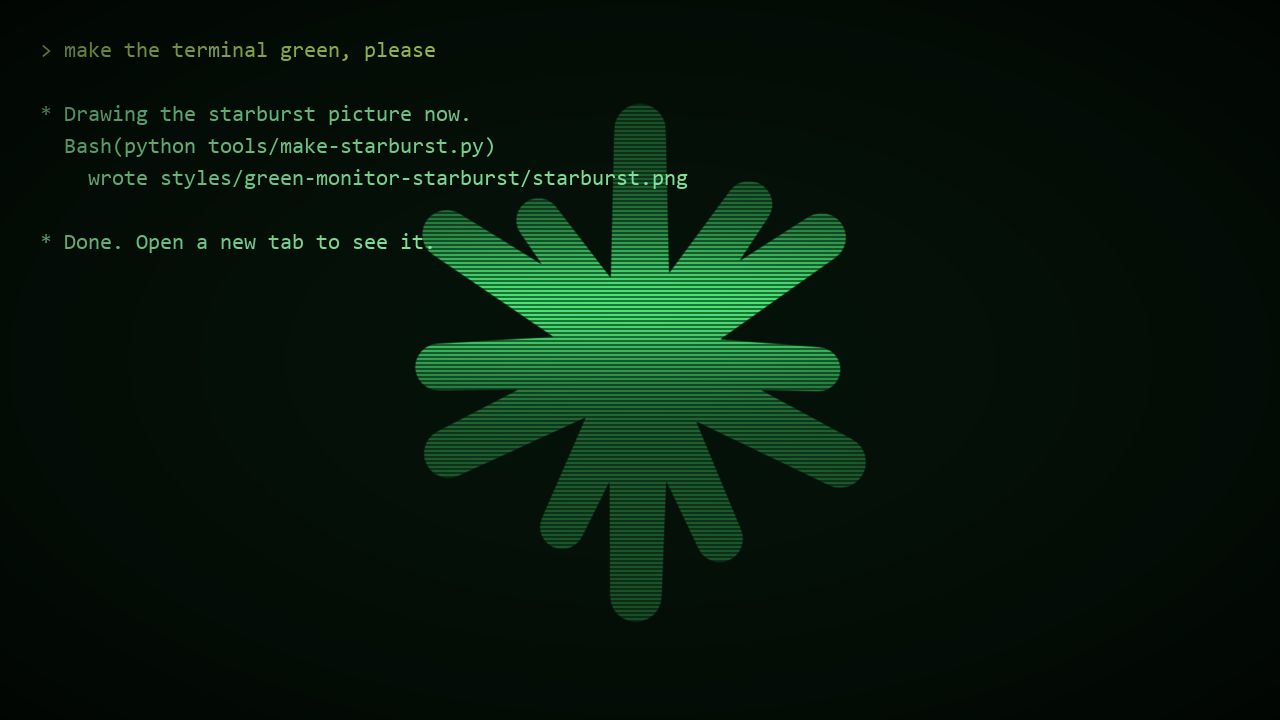
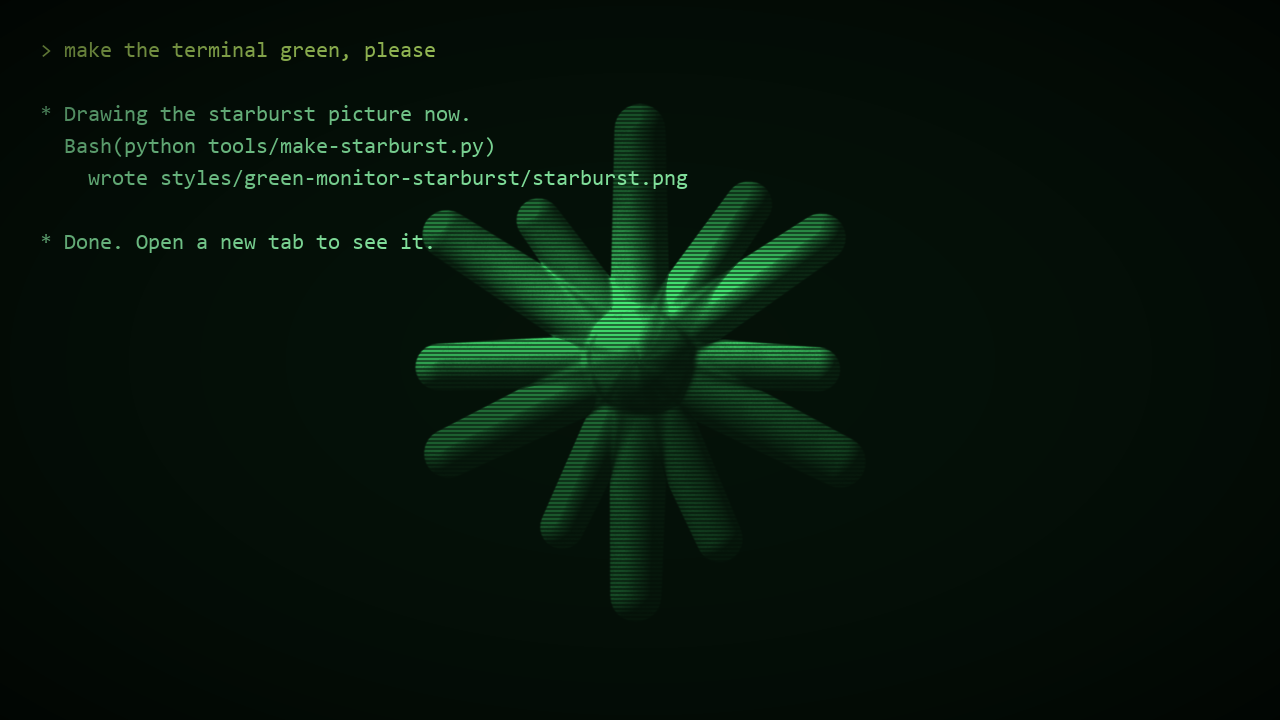
Starburst: rounded, lit and textured instead of flat

Changed region(s): [[0.3125, 0.1528, 0.6875, 0.8556]]

diff --git a/tools/make-starburst.py b/tools/make-starburst.py
@@ -1,14 +1,16 @@
 """Draws the starburst picture used as the terminal background.
 
 Our own drawing, in the spirit of the Claude spark: uneven rays of different
-lengths and widths, meeting in the middle. White on black; the shader turns it
-green, adds the stripes and the rolling light.
+lengths and widths, meeting in the middle. Shaded as a raised, rounded shape lit
+from the upper left, with a fine grain on its surface, so it has depth and texture.
+Grey on black; the shader turns it green, adds the stripes and the rolling light.
 
     python tools/make-starburst.py  ->  styles/green-monitor-starburst/starburst.png
 """
 import math
 import os
 
+import numpy as np
 from PIL import Image, ImageDraw, ImageFilter
 
 SIZE = 1024            # finished picture, square, in pixels
@@ -23,6 +25,21 @@ RAYS = [
 ]
 TIP_WIDTH = 0.85       # tip width as a fraction of the base width (rounded tip)
 SOFTEN = 1.2           # final blur radius in pixels, so the edges are not razor sharp
+
+# depth and texture
+CORE_RADIUS = 0.10     # the round middle, as a fraction of the picture
+CORE_FLATTEN = 1.0     # how domed the middle is compared with the rays (1 = a full ball)
+BLEND = 30             # pixels; how smoothly rays flow into each other (0 = hard joins)
+LIGHT_DIR = (-0.6, -0.7, 0.45)   # light from the upper left, a little in front
+AMBIENT = 0.18         # brightness of the side facing away from the light
+SHINE = 0.55           # strength of the glossy highlight
+SHINE_TIGHTNESS = 30   # higher = smaller, sharper highlight
+GRAIN = 0.10           # fine surface grain (0 = smooth)
+MOTTLE = 0.14          # larger soft blotches, like worn metal
+MOTTLE_SIZE = 9        # pixels; size of the blotches
+CREASE = 0.25          # darkening in the grooves where rays meet (0 = none)
+CREASE_WIDTH = 10      # pixels; how wide those grooves are
+SMOOTH = 4.0           # pixels; evens out the surface so the joins do not sparkle
 
 OUT = os.path.join(os.path.dirname(__file__), "..", "styles",
                    "green-monitor-starburst", "starburst.png")
@@ -42,6 +59,83 @@ def ray_polygon(cx, cy, angle, r0, r1, w0, w1, steps=12):
     return pts
 
 
+def blurred_noise(rng, shape, radius):
+    n = rng.standard_normal(shape)
+    img = Image.fromarray(((n * 40) + 128).clip(0, 255).astype(np.uint8))
+    n = np.asarray(img.filter(ImageFilter.GaussianBlur(radius)), dtype=np.float64) - 128
+    return n / (np.abs(n).max() + 1e-9)
+
+
+def soft_max(a, b, k):
+    """Like max(a, b), but rounds off the join so two shapes flow into one."""
+    h = np.clip(k - np.abs(a - b), 0, None) / k
+    return np.maximum(a, b) + h * h * k / 4 * np.clip(np.minimum(a, b) / k, 0, 1)
+
+
+def blur(a, radius):
+    """Gaussian blur in full precision (an 8-bit blur leaves ripples in the lighting)."""
+    r = int(radius * 3) + 1
+    k = np.exp(-(np.arange(-r, r + 1) / radius) ** 2 / 2)
+    k /= k.sum()
+    a = np.apply_along_axis(lambda v: np.convolve(v, k, mode="same"), 0, a)
+    return np.apply_along_axis(lambda v: np.convolve(v, k, mode="same"), 1, a)
+
+
+def tube_height(size):
+    """Height of the shape: each ray is a rounded tube, the middle a low dome.
+    Where they overlap the taller one wins, which leaves a groove at the join."""
+    y, x = np.mgrid[0:size, 0:size].astype(np.float64) + 0.5
+    x -= size / 2
+    y -= size / 2
+    height = np.zeros((size, size))
+    groove = np.full((size, size), np.inf)
+    for i, (length, width, nudge) in enumerate(RAYS[:RAY_COUNT]):
+        a = math.radians(i * 360 / RAY_COUNT + nudge - 90)
+        dx, dy = math.cos(a), math.sin(a)
+        r0, r1 = INNER_RADIUS * size, length * size
+        t = np.clip((x * dx + y * dy - r0) / (r1 - r0), 0, 1)
+        px, py = x - (r0 + t * (r1 - r0)) * dx, y - (r0 + t * (r1 - r0)) * dy
+        half = width * size / 2 * (1 - t * (1 - TIP_WIDTH))
+        h = np.sqrt(np.clip(half ** 2 - (px ** 2 + py ** 2), 0, None))
+        groove = np.minimum(groove, np.abs(h - height) + (h <= 0) * 1e9 + (height <= 0) * 1e9)
+        height = soft_max(height, h, BLEND)
+    core = CORE_RADIUS * size
+    h = np.sqrt(np.clip(core ** 2 - (x ** 2 + y ** 2), 0, None)) * CORE_FLATTEN
+    groove = np.minimum(groove, np.abs(h - height) + (h <= 0) * 1e9 + (height <= 0) * 1e9)
+    height = soft_max(height, h, BLEND)
+    return height, groove
+
+
+def blurred_noise(rng, shape, radius):
+    n = rng.standard_normal(shape)
+    img = Image.fromarray(((n * 40) + 128).clip(0, 255).astype(np.uint8))
+    n = np.asarray(img.filter(ImageFilter.GaussianBlur(radius)), dtype=np.float64) - 128
+    return n / (np.abs(n).max() + 1e-9)
+
+
+def shade(mask):
+    """Turns the flat white shape into a lit, rounded, textured one."""
+    rng = np.random.default_rng(7)  # fixed seed: same picture every run
+    height, groove = tube_height(mask.shape[0])
+    smooth = blur(height, SMOOTH)
+
+    gy, gx = np.gradient(smooth)
+    n = np.dstack([-gx, -gy, np.ones_like(gx)])
+    n /= np.linalg.norm(n, axis=2, keepdims=True)
+    light = np.array(LIGHT_DIR) / np.linalg.norm(LIGHT_DIR)
+    diffuse = np.clip(n @ light, 0, 1)
+    half = light + np.array([0, 0, 1.0])
+    half /= np.linalg.norm(half)
+    shine = np.clip(n @ half, 0, 1) ** SHINE_TIGHTNESS
+    crease = np.exp(-(groove / CREASE_WIDTH) ** 2)
+
+    tone = AMBIENT + (1 - AMBIENT) * diffuse
+    tone *= 1 + GRAIN * blurred_noise(rng, mask.shape, 0.8) + MOTTLE * blurred_noise(rng, mask.shape, MOTTLE_SIZE)
+    tone *= 1 - CREASE * crease
+    tone += SHINE * shine
+    return np.clip(tone, 0, 1) * mask
+
+
 def main():
     big = SIZE * SUPERSAMPLE
     img = Image.new("L", (big, big), 0)
@@ -54,7 +148,8 @@ def main():
                                  w0, w0 * TIP_WIDTH), fill=255)
     draw.ellipse([c - 0.11 * big, c - 0.11 * big, c + 0.11 * big, c + 0.11 * big], fill=255)
     img = img.resize((SIZE, SIZE), Image.LANCZOS).filter(ImageFilter.GaussianBlur(SOFTEN))
-    img.convert("RGB").save(OUT)
+    shaded = shade(np.asarray(img, dtype=np.float64) / 255)
+    Image.fromarray((shaded * 255).astype(np.uint8)).convert("RGB").save(OUT)
     print("wrote", os.path.normpath(OUT))
 
 

diff --git a/README.md b/README.md
@@ -9,7 +9,7 @@ small shader (a file that repaints the terminal window) plus a colour scheme.
 
 | Style | What it looks like |
 | --- | --- |
-| [`green-monitor-starburst`](styles/green-monitor-starburst/) | **The default.** An old green monitor: sharp letters with a soft glow, green glass, dark corners, and a faint striped starburst behind the text with a light that slowly runs down the screen over it. |
+| [`green-monitor-starburst`](styles/green-monitor-starburst/) | **The default.** An old green monitor: sharp letters with a soft glow, green glass, dark corners, and a faint striped starburst behind the text (rounded and lit, with a grainy metal surface) with a light that slowly runs down the screen over it. |
 | [`green-monitor`](styles/green-monitor/) | The same monitor without a picture: fine scanlines over the whole screen, a lighter band and the rolling light. |
 | [`sharp-scanlines`](styles/sharp-scanlines/) | The simplest one: dark scanlines only, letters stay crisp. Pair it with any colour scheme. |
 
